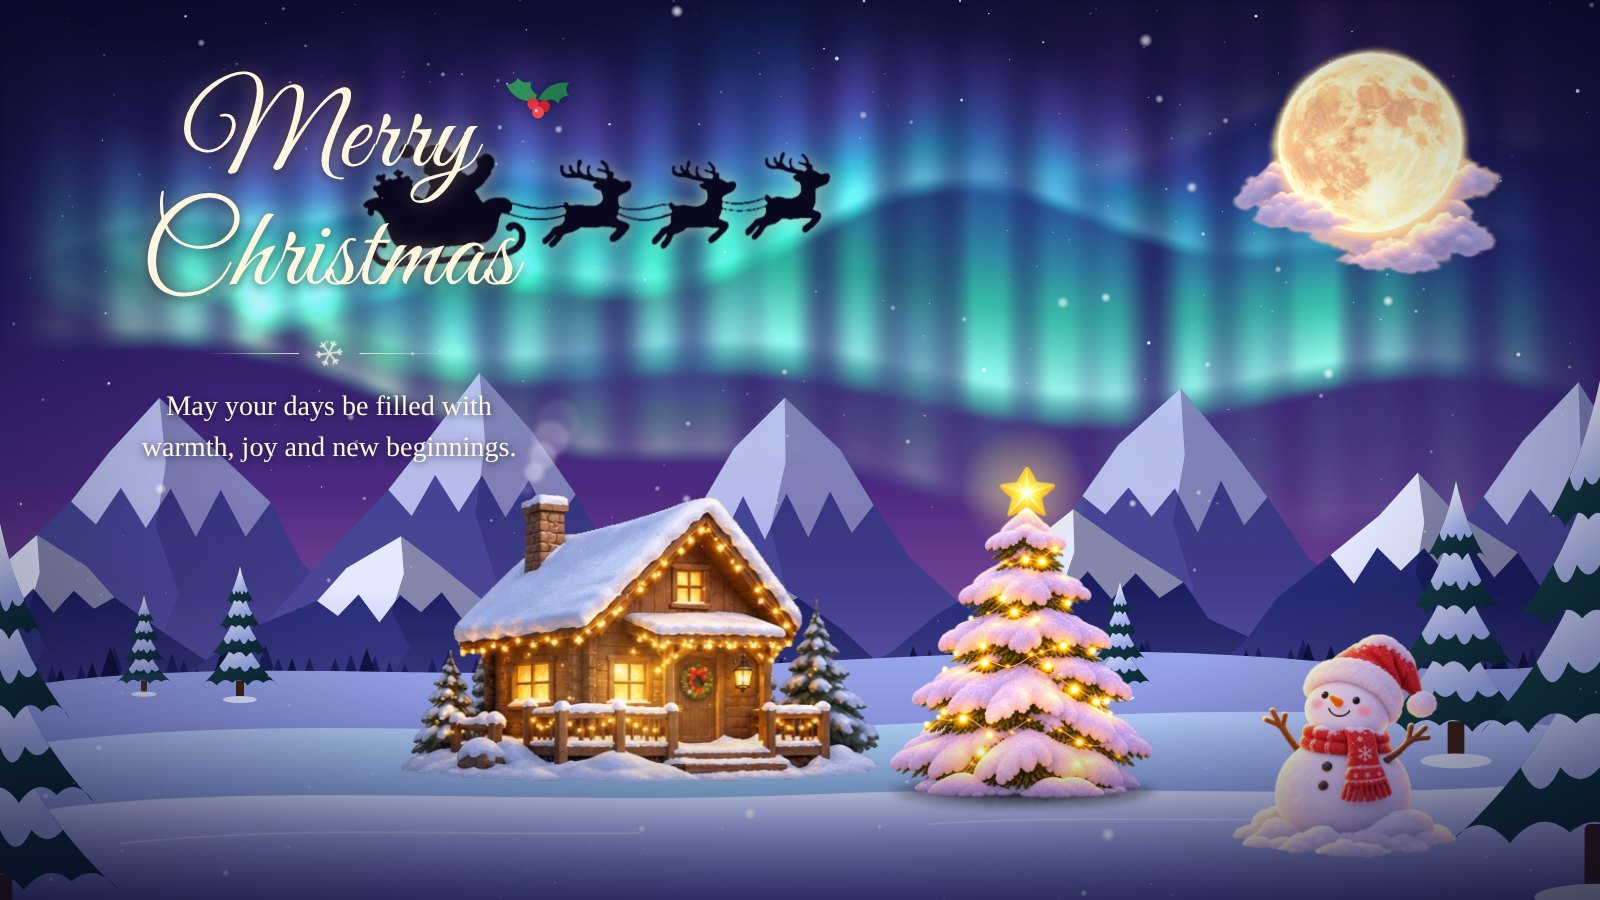
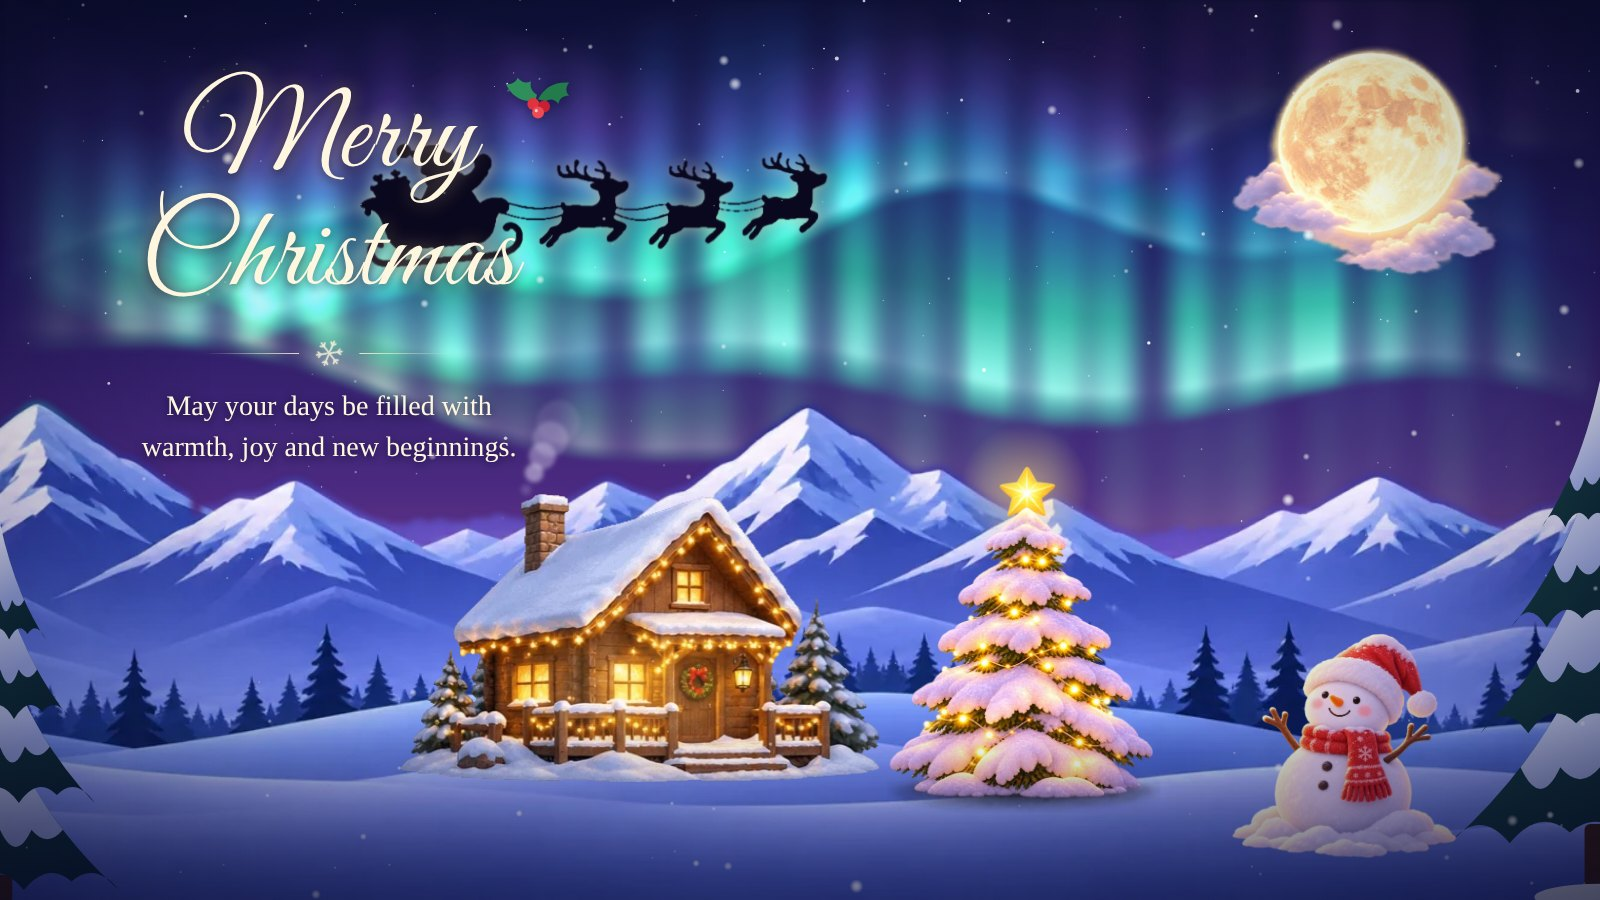
Use the supplied mountain landscape
Replace the drawn mountain ranges and snowfield with the mountains,
forest and snow hills cut from the supplied panorama.

Claude-Session: https://claude.ai/code/session_01Pq61EFtCyfWFkmuCF2w6ZR

Changed region(s): [[0.0, 0.4044, 1.0, 0.9956], [0.2812, 0.1556, 0.5312, 0.28], [0.2188, 0.1556, 0.3125, 0.28]]

diff --git a/src/components/Landscape.tsx b/src/components/Landscape.tsx
@@ -1,105 +1,15 @@
-import { useId } from 'react';
-import {
-  FAR_RANGE,
-  FOREST_BACK,
-  FOREST_FRONT,
-  LANDSCAPE_FROM,
-  LANDSCAPE_TO,
-  NEAR_RANGE,
-} from '../assets/landscape';
+import landscapeUrl from '../assets/images/landscape.webp';
 import { Pine } from './Pine';
 
-/** Moonlit mountain ranges with a pine forest along their feet. */
+/** Snow-capped mountains, a pine forest at their feet and rolling snowfields. */
 export function Mountains() {
-  const id = useId().replace(/:/g, '');
-  return (
-    <svg className="ca-mountains" viewBox="0 0 1600 420" preserveAspectRatio="xMidYMax meet">
-      <defs>
-        <linearGradient id={`${id}far`} x1="0" y1="0" x2="0" y2="1">
-          <stop offset="0" stopColor="#4a4f9e" />
-          <stop offset="1" stopColor="#353a86" />
-        </linearGradient>
-        <linearGradient id={`${id}near`} x1="0" y1="0" x2="0" y2="1">
-          <stop offset="0" stopColor="#2c3180" />
-          <stop offset="1" stopColor="#1d2262" />
-        </linearGradient>
-        <linearGradient id={`${id}haze`} x1="0" y1="0" x2="0" y2="1">
-          <stop offset="0" stopColor="#6a5fb8" stopOpacity="0" />
-          <stop offset="1" stopColor="#6a5fb8" stopOpacity="0.55" />
-        </linearGradient>
-      </defs>
-
-      <g opacity="0.9">
-        {FAR_RANGE.map((peak, i) => (
-          <g key={i}>
-            <path d={peak.body} fill={`url(#${id}far)`} />
-            <path d={peak.snow} fill="#c3ccf7" />
-            <path d={peak.shade} fill="#1a1c5c" opacity="0.38" />
-          </g>
-        ))}
-      </g>
-      <rect x={LANDSCAPE_FROM} y="200" width={LANDSCAPE_TO - LANDSCAPE_FROM} height="220" fill={`url(#${id}haze)`} />
-
-      {NEAR_RANGE.map((peak, i) => (
-        <g key={i}>
-          <path d={peak.body} fill={`url(#${id}near)`} />
-          <path d={peak.snow} fill="#e3e9ff" />
-          <path d={peak.shade} fill="#0d1045" opacity="0.45" />
-        </g>
-      ))}
-      <rect x={LANDSCAPE_FROM} y="290" width={LANDSCAPE_TO - LANDSCAPE_FROM} height="130" fill={`url(#${id}haze)`} />
-
-      <path d={FOREST_BACK} fill="#1a1f5a" />
-      <path d={FOREST_FRONT} fill="#10143f" />
-    </svg>
-  );
-}
-
-/** Rolling snow hills in the foreground. Stretches horizontally to fit any width. */
-export function Ground({ auroraGlow }: { auroraGlow: boolean }) {
-  const id = useId().replace(/:/g, '');
-  return (
-    <svg className="ca-ground" viewBox="0 0 1600 300" preserveAspectRatio="none">
-      <defs>
-        <linearGradient id={`${id}a`} x1="0" y1="0" x2="0" y2="1">
-          <stop offset="0" stopColor="#9aa6ea" />
-          <stop offset="1" stopColor="#5a62b4" />
-        </linearGradient>
-        <linearGradient id={`${id}b`} x1="0" y1="0" x2="0" y2="1">
-          <stop offset="0" stopColor="#c2ccff" />
-          <stop offset="0.5" stopColor="#8c96de" />
-          <stop offset="1" stopColor="#5d64b6" />
-        </linearGradient>
-        <linearGradient id={`${id}c`} x1="0" y1="0" x2="0" y2="1">
-          <stop offset="0" stopColor="#eef2ff" />
-          <stop offset="0.35" stopColor="#b3bdf3" />
-          <stop offset="1" stopColor="#5a5fae" />
-        </linearGradient>
-        <linearGradient id={`${id}g`} x1="0" y1="0" x2="1" y2="0">
-          <stop offset="0" stopColor="#5dffb0" stopOpacity="0" />
-          <stop offset="0.45" stopColor="#5dffb0" stopOpacity="0.22" />
-          <stop offset="1" stopColor="#7aa8ff" stopOpacity="0.05" />
-        </linearGradient>
-      </defs>
-      <path d="M0,62C200,22 420,52 640,40C900,26 1100,6 1320,30C1450,44 1540,40 1600,28V300H0Z" fill={`url(#${id}a)`} />
-      <path d="M0,128C260,84 520,120 800,106C1080,92 1300,70 1600,108V300H0Z" fill={`url(#${id}b)`} />
-      {auroraGlow ? (
-        <path className="ca-ground-glow" d="M0,128C260,84 520,120 800,106C1080,92 1300,70 1600,108V190H0Z" fill={`url(#${id}g)`} />
-      ) : null}
-      <path d="M0,205C240,160 520,196 820,180C1120,166 1380,192 1600,162V300H0Z" fill={`url(#${id}c)`} />
-      <path d="M120,236C300,214 470,228 640,224M930,214C1090,202 1250,214 1420,206" fill="none" stroke="#fff" strokeOpacity="0.35" strokeWidth="2" strokeLinecap="round" />
-    </svg>
-  );
+  return <img className="ca-mountains" src={landscapeUrl} alt="" draggable={false} />;
 }
 
 /** Dark, snow-laden pines that frame the scene and give it depth. */
 export function FramingPines() {
   return (
     <>
-      <div className="ca-pine ca-pine--far-a"><Pine /></div>
-      <div className="ca-pine ca-pine--far-b"><Pine /></div>
-      <div className="ca-pine ca-pine--far-c"><Pine /></div>
-      <div className="ca-pine ca-pine--right-back"><Pine /></div>
       <div className="ca-pine ca-pine--right"><Pine /></div>
       <div className="ca-pine ca-pine--left"><Pine /></div>
     </>

diff --git a/src/assets/landscape.ts b/src/assets/landscape.ts
@@ -1,116 +1,4 @@
-import { createRandom, lerp, r1 } from '../animations/random';
-
-type Point = readonly [number, number];
-
-const toPath = (points: readonly Point[]): string =>
-  `M${points.map(([x, y]) => `${r1(x)},${r1(y)}`).join('L')}Z`;
-
-export interface Peak {
-  /** Whole mountain silhouette. */
-  body: string;
-  /** Snow cap with a jagged lower edge. */
-  snow: string;
-  /** The face turned away from the moon, drawn as a translucent shadow. */
-  shade: string;
-}
-
-/** [centre x, summit y, left half-width, right half-width] */
-export type PeakSpec = readonly [number, number, number, number];
-
-const SEGMENTS = 6;
-
-function buildPeak(rand: () => number, [cx, top, wl, wr]: PeakSpec, base: number): Peak {
-  const rise = base - top;
-  const slope = (halfWidth: number, direction: 1 | -1): Point[] => {
-    const points: Point[] = [[cx, top]];
-    for (let i = 1; i <= SEGMENTS; i++) {
-      const t = i / SEGMENTS;
-      const jitter = i < SEGMENTS ? (rand() - 0.5) * halfWidth * 0.09 : 0;
-      points.push([cx + direction * halfWidth * t + jitter, top + rise * t + (rand() - 0.5) * rise * 0.03]);
-    }
-    return points;
-  };
-  const left = slope(wl, -1);
-  const right = slope(wr, 1);
-
-  // A wandering ridge line from the summit to the foot splits the lit and shaded faces.
-  const ridge: Point[] = [];
-  const drift = (wr - wl) * 0.2 + (rand() - 0.5) * 40;
-  for (let i = 1; i <= 5; i++) {
-    const t = i / 5;
-    ridge.push([cx + drift * t + (i % 2 ? 1 : -1) * (wl + wr) * 0.035 * t, lerp(top, base, t)]);
-  }
-
-  const snowLeft = left.slice(0, 3);
-  const snowRight = right.slice(0, 3);
-  const [fromX, fromY] = snowRight[2];
-  const [toX, toY] = snowLeft[2];
-  const teeth: Point[] = [];
-  for (let j = 1; j <= 7; j++) {
-    const t = j / 8;
-    const depth = rise * 0.09 * (0.6 + rand() * 0.8);
-    teeth.push([lerp(fromX, toX, t), lerp(fromY, toY, t) + (j % 2 ? depth : -depth * 0.4)]);
-  }
-
-  return {
-    body: toPath([...left.slice().reverse(), ...right.slice(1)]),
-    snow: toPath([...snowLeft.slice().reverse(), ...snowRight.slice(1), ...teeth]),
-    shade: toPath([[cx, top], ...right.slice(1), ...ridge.slice().reverse()]),
-  };
-}
-
-/**
- * The landscape is generated well beyond the 1600-unit viewBox on both sides,
- * so very wide banners still have mountains from edge to edge.
- */
-export const LANDSCAPE_FROM = -1600;
-export const LANDSCAPE_TO = 3200;
-
-interface RangeOptions {
-  spacing: number;
-  /** Summit height range (smaller y is taller). */
-  top: readonly [number, number];
-  halfWidth: readonly [number, number];
-  base: number;
-}
-
-export function buildRange(seed: number, { spacing, top, halfWidth, base }: RangeOptions): Peak[] {
-  const rand = createRandom(seed);
-  const peaks: Peak[] = [];
-  for (let x = LANDSCAPE_FROM; x <= LANDSCAPE_TO; x += spacing * (0.85 + rand() * 0.3)) {
-    const spec: PeakSpec = [
-      x,
-      lerp(top[0], top[1], rand()),
-      lerp(halfWidth[0], halfWidth[1], rand()),
-      lerp(halfWidth[0], halfWidth[1], rand()),
-    ];
-    peaks.push(buildPeak(rand, spec, base));
-  }
-  return peaks;
-}
-
-/** A row of distant pine silhouettes as a single path. */
-export function buildForest(
-  seed: number,
-  base: number,
-  minHeight: number,
-  maxHeight: number,
-): string {
-  const rand = createRandom(seed);
-  let d = '';
-  for (let x = LANDSCAPE_FROM; x < LANDSCAPE_TO; x += 11 + rand() * 20) {
-    const h = lerp(minHeight, maxHeight, rand() ** 1.5);
-    const w = h * 0.3;
-    const foot = base + rand() * 6;
-    for (let tier = 0; tier < 3; tier++) {
-      const tierWidth = w * (1 - 0.24 * tier);
-      const bottom = foot - h * 0.27 * tier;
-      const tip = tier === 2 ? foot - h : bottom - h * 0.5;
-      d += `M${r1(x - tierWidth)},${r1(bottom)}L${r1(x)},${r1(tip)}L${r1(x + tierWidth)},${r1(bottom)}Z`;
-    }
-  }
-  return d;
-}
+import { createRandom, r1 } from '../animations/random';
 
 export interface Star {
   /** Position as a percentage of the sky. */
@@ -140,8 +28,4 @@ export function buildStars(seed: number, count: number): Star[] {
   });
 }
 
-export const FAR_RANGE = buildRange(11, { spacing: 340, top: [70, 150], halfWidth: [250, 320], base: 420 });
-export const NEAR_RANGE = buildRange(29, { spacing: 325, top: [175, 240], halfWidth: [220, 290], base: 420 });
-export const FOREST_BACK = buildForest(5, 392, 26, 58);
-export const FOREST_FRONT = buildForest(8, 412, 34, 76);
 export const STARS = buildStars(3, 130);

diff --git a/src/styles/christmas-aurora.css b/src/styles/christmas-aurora.css
@@ -161,25 +161,15 @@
 
 /* ---------- landscape ---------- */
 
-/* Fixed scale (27 units tall); the artwork extends past the viewBox to cover wide containers. */
-.ca-scene svg.ca-mountains {
+/* Fixed scale, bottom-anchored and centred; it only grows when the container is wider than the picture. */
+.ca-mountains {
   position: absolute;
   left: 50%;
-  bottom: calc(var(--ca-u) * 11);
-  width: max(100%, calc(var(--ca-u) * 102.86));
-  height: calc(var(--ca-u) * 27);
-  transform: translateX(-50%);
-}
-
-.ca-scene svg.ca-ground {
-  position: absolute;
-  left: 0;
   bottom: 0;
-  height: calc(var(--ca-u) * 16.5);
-}
-
-.ca-ground-glow {
-  animation: ca-ground-glow calc(9s / var(--ca-speed)) ease-in-out infinite alternate;
+  width: max(100%, calc(var(--ca-u) * 150));
+  max-width: none;
+  height: auto;
+  transform: translateX(-50%);
 }
 
 .ca-pine,
@@ -188,31 +178,6 @@
 .ca-snowman {
   position: absolute;
   transform: translateX(-50%);
-}
-
-.ca-pine--far-a {
-  left: 9%;
-  bottom: calc(var(--ca-u) * 12.6);
-  width: calc(var(--ca-u) * 4.6);
-  opacity: 0.9;
-}
-
-.ca-pine--far-b {
-  left: 15%;
-  bottom: calc(var(--ca-u) * 12.2);
-  width: calc(var(--ca-u) * 6.2);
-}
-
-.ca-pine--far-c {
-  left: 70%;
-  bottom: calc(var(--ca-u) * 12.3);
-  width: calc(var(--ca-u) * 5.4);
-}
-
-.ca-pine--right-back {
-  left: 91%;
-  bottom: calc(var(--ca-u) * 8);
-  width: calc(var(--ca-u) * 13);
 }
 
 .ca-pine--right {
@@ -549,11 +514,6 @@
 @keyframes ca-pulse {
   from { opacity: 0.75; scale: 0.94; }
   to { opacity: 1; scale: 1.08; }
-}
-
-@keyframes ca-ground-glow {
-  from { opacity: 0.45; }
-  to { opacity: 1; }
 }
 
 @keyframes ca-flicker {

diff --git a/src/components/ChristmasAurora.tsx b/src/components/ChristmasAurora.tsx
@@ -9,7 +9,7 @@ import { ChristmasTree } from './ChristmasTree';
 import { Greeting } from './Greeting';
 import { Hut } from './Hut';
 import { Moon } from './Moon';
-import { FramingPines, Ground, Mountains } from './Landscape';
+import { FramingPines, Mountains } from './Landscape';
 import { Santa } from './Santa';
 import { Snowfall } from './Snowfall';
 import { Snowman } from './Snowman';
@@ -141,7 +141,6 @@ export const ChristmasAurora = forwardRef<HTMLDivElement, ChristmasAuroraProps>(
             <Santa active={active} speed={safeSpeed} onSpeak={audio.jingle} />
           ) : null}
           <Mountains />
-          <Ground auroraGlow={aurora} />
           <FramingPines />
           {hut ? <Hut /> : null}
           {christmasTree ? <ChristmasTree /> : null}

diff --git a/README.md b/README.md
@@ -5,7 +5,7 @@ A magical animated Christmas scene for React. One component gives you waving nor
 ![christmas-aurora demo](./docs/demo.gif)
 
 - **One import, no setup.** Styles are bundled with the component; there is no CSS file to import.
-- **Self-contained.** No dependencies beyond React and nothing to host: the illustrations are embedded in the bundle (about 390 kB gzipped).
+- **Self-contained.** No dependencies beyond React and nothing to host: the illustrations are embedded in the bundle (about 460 kB gzipped).
 - **Smooth.** Canvas for the aurora and snow, SVG and CSS transforms for everything else. Animation stops when the scene is off screen or the tab is hidden.
 - **Considerate.** Respects `prefers-reduced-motion`, never autoplays audio, and cleans up every loop, timer and listener on unmount.
 - **Typed.** Written in TypeScript, ships ESM and CommonJS builds, and works with server rendering.
